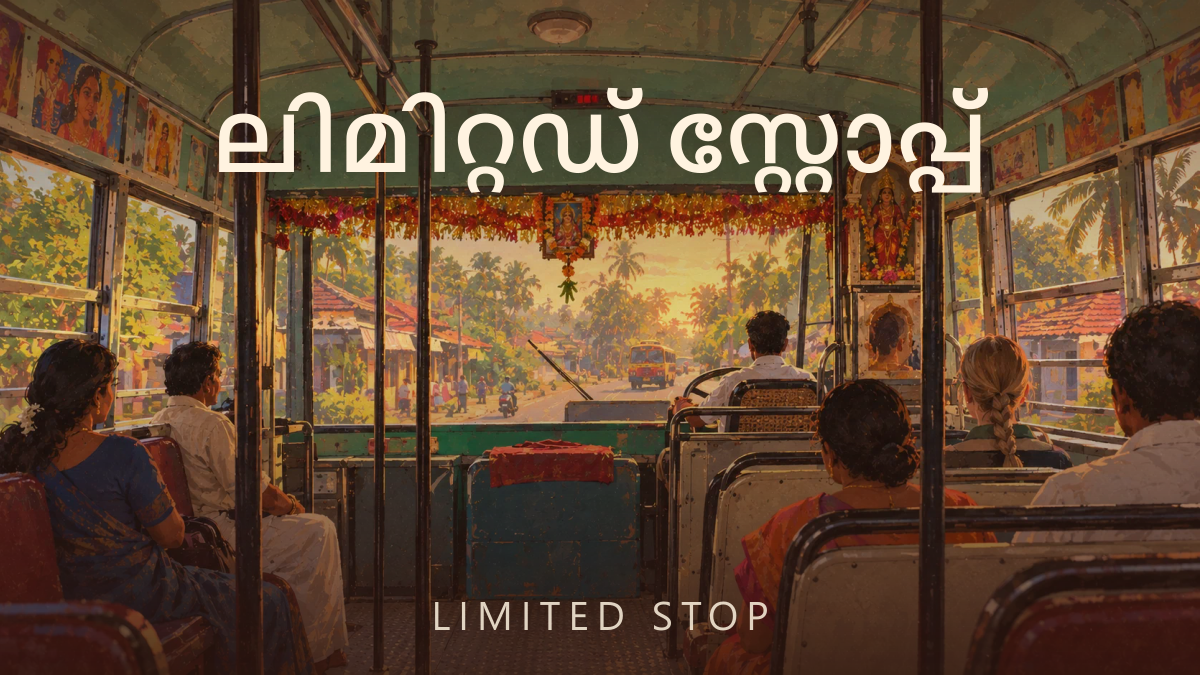
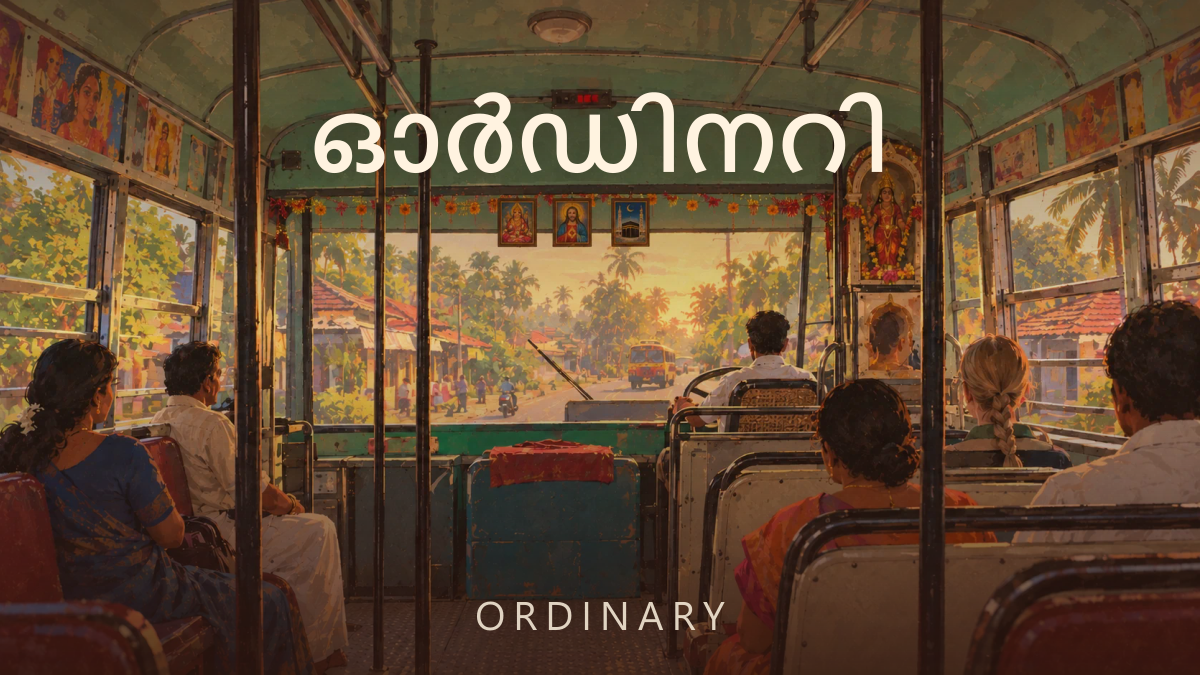
chore: rename project to Ordinary

diff --git a/hooks/usePresenceCount.ts b/hooks/usePresenceCount.ts
@@ -1,16 +1,19 @@
 "use client";
 
 import { useEffect, useState } from "react";
+import { migrateKey } from "@/lib/storage";
 import { getSupabase } from "@/lib/supabase";
 
 const CHANNEL = "onboard";
-const KEY_STORAGE = "limited-stop:presence-key";
+const KEY_STORAGE = "ordinary:presence-key";
+const LEGACY_KEY_STORAGE = "limited-stop:presence-key";
 
 let warned = false;
 
 /** Random per-tab key; carries no personal data. */
 function tabKey(): string {
   try {
+    migrateKey(window.sessionStorage, LEGACY_KEY_STORAGE, KEY_STORAGE);
     const existing = window.sessionStorage.getItem(KEY_STORAGE);
     if (existing) return existing;
     const created = crypto.randomUUID();

diff --git a/hooks/useVolume.ts b/hooks/useVolume.ts
@@ -1,14 +1,17 @@
 "use client";
 
 import { useCallback, useSyncExternalStore } from "react";
+import { migrateKey } from "@/lib/storage";
 
-const KEY = "limited-stop:volume";
+const KEY = "ordinary:volume";
+const LEGACY_KEY = "limited-stop:volume";
 const DEFAULT_VOLUME = 80;
 
 const listeners = new Set<() => void>();
 
 function read(): number {
   try {
+    migrateKey(window.localStorage, LEGACY_KEY, KEY);
     const raw = window.localStorage.getItem(KEY);
     if (raw === null) return DEFAULT_VOLUME;
     const value = Number(raw);

diff --git a/lib/storage.ts b/lib/storage.ts
@@ -1,0 +1,11 @@
+/** Moves a value saved under an old key to its new key once, then removes the old key. */
+export function migrateKey(storage: Storage, oldKey: string, newKey: string) {
+  try {
+    const old = storage.getItem(oldKey);
+    if (old === null) return;
+    if (storage.getItem(newKey) === null) storage.setItem(newKey, old);
+    storage.removeItem(oldKey);
+  } catch {
+    // Storage can be unavailable (private mode, blocked site data); nothing to migrate then.
+  }
+}

diff --git a/config/site.ts b/config/site.ts
@@ -15,8 +15,8 @@ export type SiteConfig = {
 };
 
 export const siteConfig: SiteConfig = {
-  name: "Limited Stop",
-  nameMl: "ലിമിറ്റഡ് സ്റ്റോപ്പ്",
+  name: "Ordinary",
+  nameMl: "ഓർഡിനറി",
   tagline: "The sound of a Kerala private bus.",
   description:
     "Take a seat on an old Kerala town bus and ride along to the Malayalam songs that play through its speakers.",

diff --git a/hooks/useMediaSession.ts b/hooks/useMediaSession.ts
@@ -30,7 +30,7 @@ export function useMediaSession({ song, playing, started, currentTime, duration,
     navigator.mediaSession.metadata = new MediaMetadata({
       title: song.title,
       artist: song.artist,
-      album: "Limited Stop",
+      album: "Ordinary",
       artwork: cover
         ? [{ src: new URL(cover, window.location.origin).href, sizes: "480x360", type: "image/jpeg" }]
         : [],

diff --git a/README.md b/README.md
@@ -1,4 +1,4 @@
-# Limited Stop · ലിമിറ്റഡ് സ്റ്റോപ്പ്
+# Ordinary · ഓർഡിനറി
 
 A single-screen tribute to the sound of Kerala private buses. You sit inside an old town bus, looking toward the driver, while Malayalam bus-ride songs play.
 
@@ -54,7 +54,7 @@ Background files are `public/bg/bus-interior.webp` and `public/bg/bus-interior-m
 |---|---|
 | `NEXT_PUBLIC_SUPABASE_URL` | Supabase project URL (live counter) |
 | `NEXT_PUBLIC_SUPABASE_ANON_KEY` | Supabase anon key (live counter). `NEXT_PUBLIC_SUPABASE_PUBLISHABLE_KEY` also works |
-| `NEXT_PUBLIC_SITE_URL` | Production URL, used for metadata, sitemap and social cards |
+| `NEXT_PUBLIC_SITE_URL` | Production URL, used for metadata, sitemap and social cards. Set it to `https://ordinarybus.vercel.app` (no trailing slash) |
 
 Without the Supabase variables the counter shows `1 onboard` (just you); no number is made up.
 
@@ -93,6 +93,6 @@ The site joins one Realtime channel named `onboard` and tracks a random per-tab 
 1. Push the repository to GitHub and import it in Vercel.
 2. Add the three environment variables above in Project Settings, Environment Variables.
 3. Deploy. No custom server or build settings are needed.
-4. Set `NEXT_PUBLIC_SITE_URL` to the production domain, then redeploy so the social card and sitemap use it.
+4. Set `NEXT_PUBLIC_SITE_URL` to `https://ordinarybus.vercel.app`, then redeploy so the social card and sitemap use it.
 
 Before launch, replace `public/opengraph.png` (1200×675) with final artwork.
